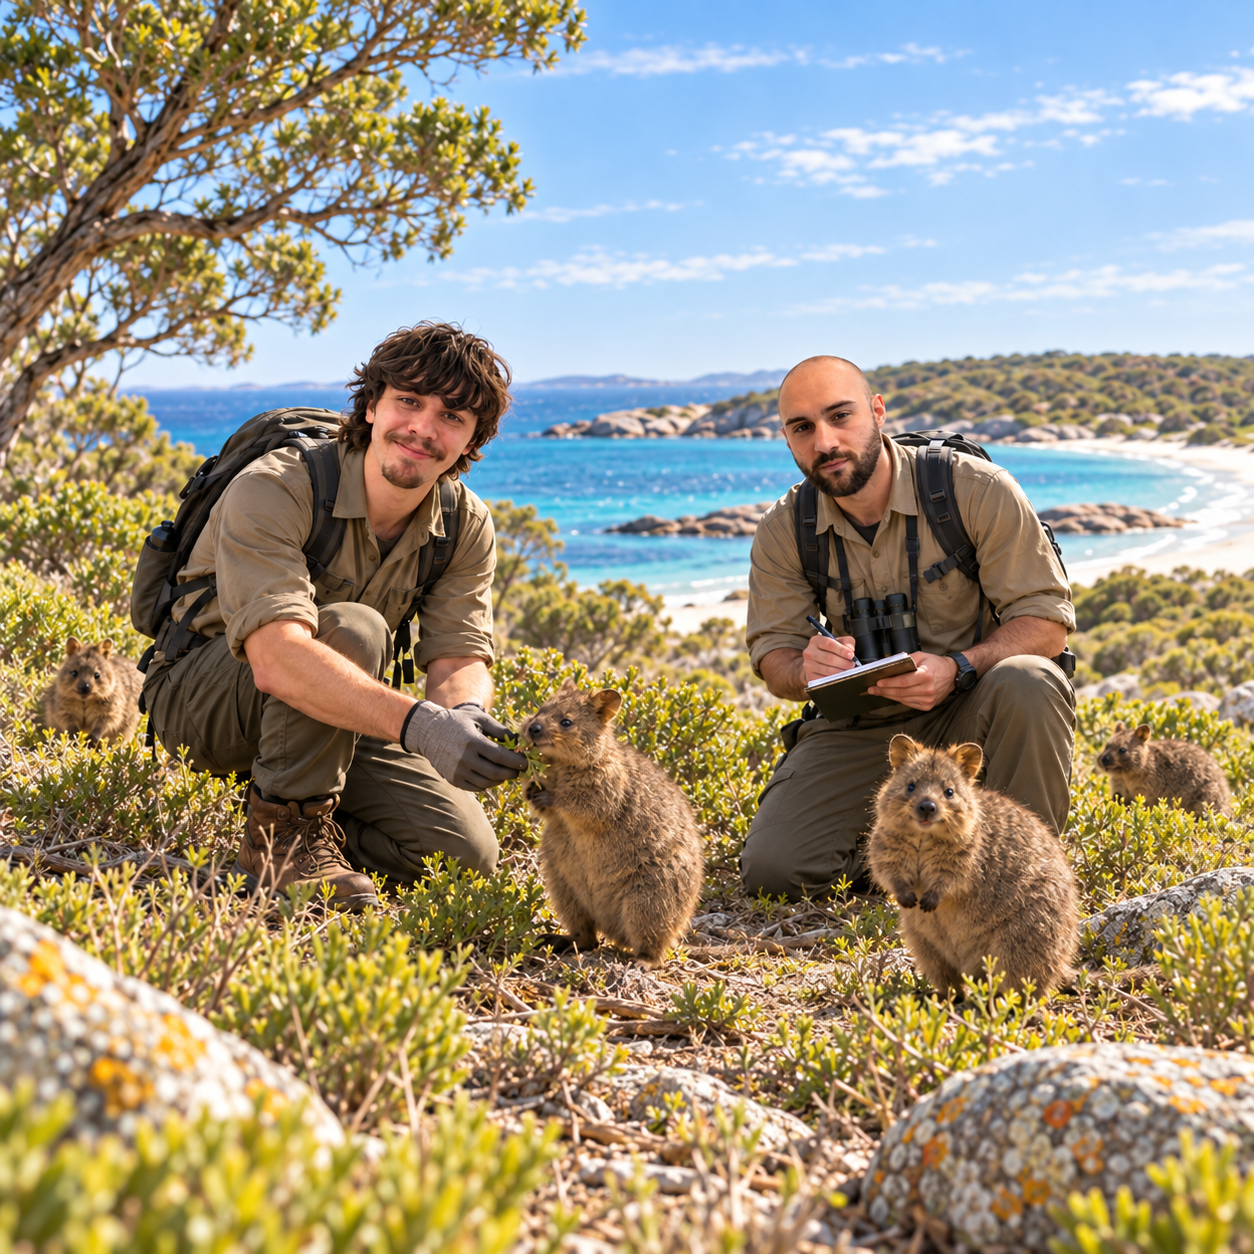
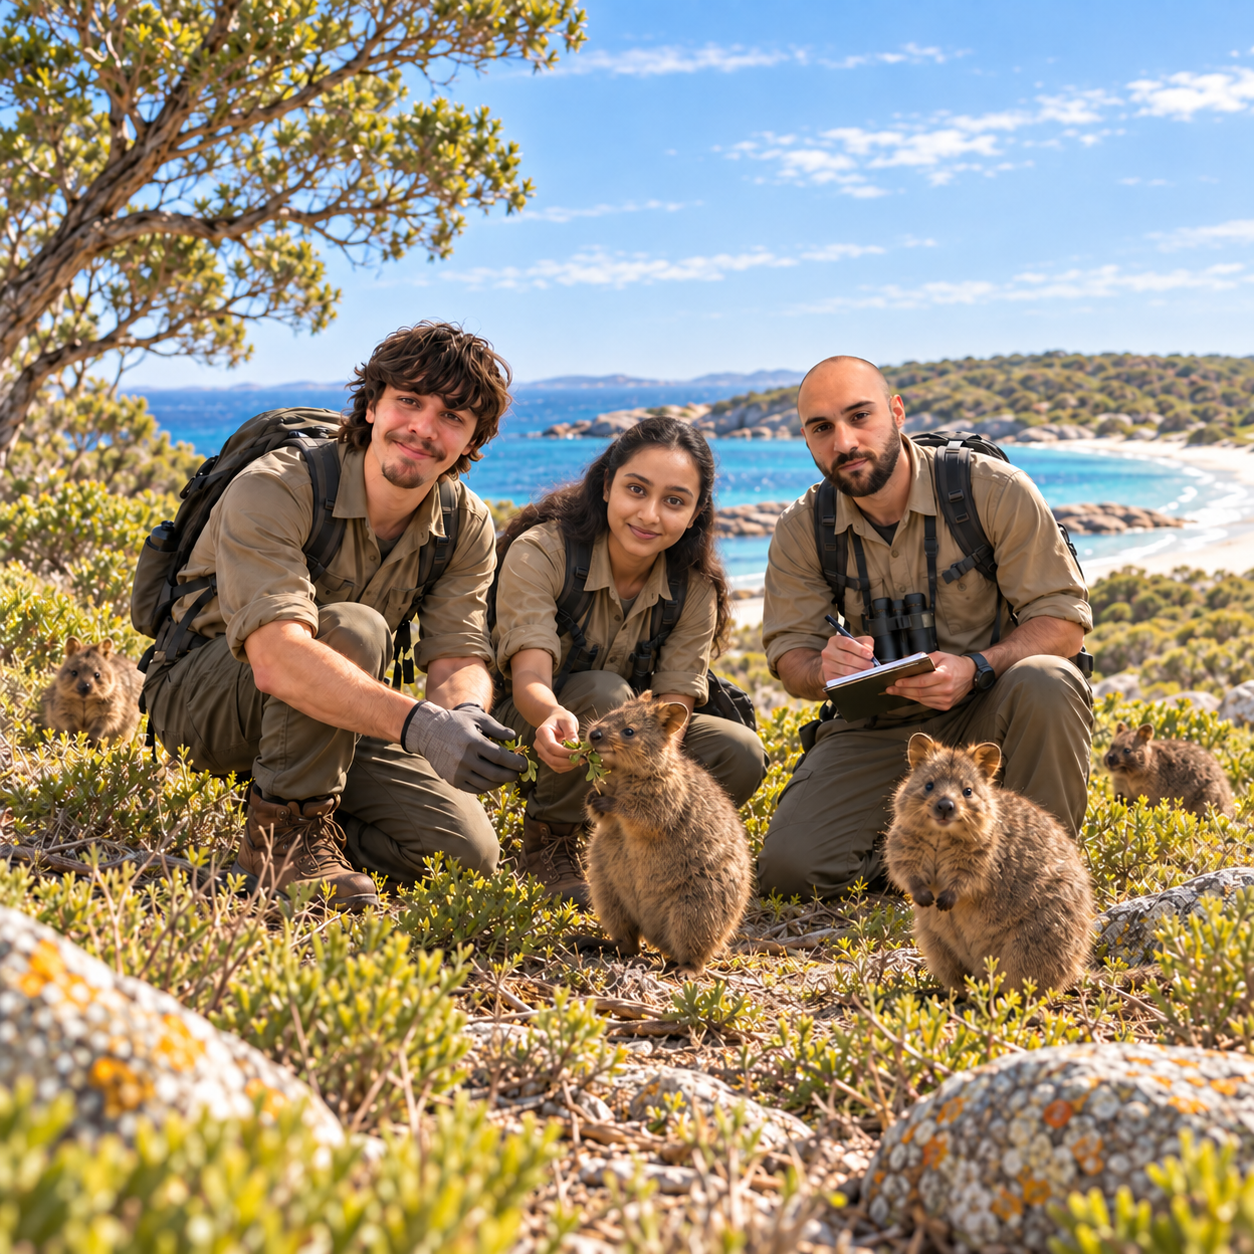
Final cleanup and merge conflict fixes

diff --git a/apply.html b/apply.html
@@ -16,7 +16,6 @@
 </style>
 </head>
 <body>
-<<<<<<< HEAD
   <header>
     <div class="header-content">
       <a href="index.html">
@@ -31,26 +30,6 @@
       <a class="donate-button" href="#">Donate!</a>
     </div>
   </header>
-=======
-    <header>
-        <div class="header-content">
-
-            <a href="index.html">
-                <img class="logo" src="images/quokka_logo.png" alt="Quokka Recovery Program">
-            </a>
-
-            <nav>
-                <a href="index.html">Home</a>
-                <a href="jobs.html">Jobs</a>
-                <a href="apply.html">Apply</a>
-                <a href="about.html">About</a>
-            </nav>
-
-            <a class="donate-button" href="#">Donate!</a>
-
-        </div>
-    </header>
->>>>>>> 37b0c55d7ea3439eded2c9a651a1bcc5f78f3058
 
     <main>
     <div id="apply-title">
@@ -176,7 +155,6 @@
         </form>
     </main>
 
-<<<<<<< HEAD
   <footer>
     <div class="footer-content">
         <p>&copy; 2026 G05 Quokka Recovery Program</p>
@@ -198,29 +176,6 @@
         </div>
     </div>
 </footer>
-=======
-    <footer>
-        <div class="footer-content">
-            <p>&copy; 2026 G05 Swinburne Uni</p>
-
-            <div class="footer-links">
-                <a href="https://g05-applied-web-project.atlassian.net/jira/software/projects/SCRUM/boards/1"
-                target="_blank">
-                    Jira Project
-                </a>
-
-                <a href="https://github.com/106009537/g05-applied-web-project.git"
-                target="_blank">
-                    GitHub Repository
-                </a>
-
-                <a href="mailto:106009537@student.swin.edu.au">
-                    contact@quokkarecoveryprogram.org
-                </a>
-            </div>
-        </div>
-    </footer>
->>>>>>> 37b0c55d7ea3439eded2c9a651a1bcc5f78f3058
   
 </body>
 </html>

diff --git a/about.html b/about.html
@@ -42,16 +42,12 @@
               <dl>
                   <dt><strong>Eddy Lemos:</strong></dt>
                   <dd>
-                      Homepage, About US html and css; Header, Footer html and css; Jira, Github repo, readme, and Github pages setup; generation and css management for Hompage images and background.
+                      Homepage, About US html and css; Header, Footer html and css; Jira, Github repo, readme, and Github pages setup; generation and css management of Hompage images and background.
                   </dd>
 
                   <dt><strong>Alisha Khokhar:</strong></dt>
                   <dd>
-<<<<<<< HEAD
                       Built the Job Application page (apply.html) — created the full form with all required fields, validation patterns, and fieldsets; fixed structural HTML errors; added Flexbox layout styling for the form; resolved a Git merge conflict in the shared styles.css.
-=======
-                      Apply page html and css.
->>>>>>> 37b0c55d7ea3439eded2c9a651a1bcc5f78f3058
                   </dd>
 
                   <dt><strong>Cameron Yardy:</strong></dt>

diff --git a/README.md b/README.md
@@ -16,13 +16,8 @@ https://g05-applied-web-project.atlassian.net?continue=https%3A%2F%2Fg05-applied
 | Name | Contributions |
 |------|---------------|
 | Eduardo Lemos | Homepage, About US html and css; Header, Footer html and css; Jira, Github repo, readme, and Github pages setup; generation and css management for Hompage images and background, drafted Group Agreement |
-<<<<<<< HEAD
 | Sebastian Kesuma | |
 | Alisha Khokhar | Built the Job Application page (apply.html) — created the full form with all required fields and validation patterns; fixed structural HTML errors; added Flexbox layout styling for the form; resolved a Git merge conflict in the shared styles.css. | 
-=======
-| Sebastian Kesuma | | Left the project on day one
-| Alisha Khokhar | |Apply page html and css.
->>>>>>> 37b0c55d7ea3439eded2c9a651a1bcc5f78f3058
 | Cameron Yardy | CSS Styling, Jobs.html, Page Specific style Requirements |
 
 
